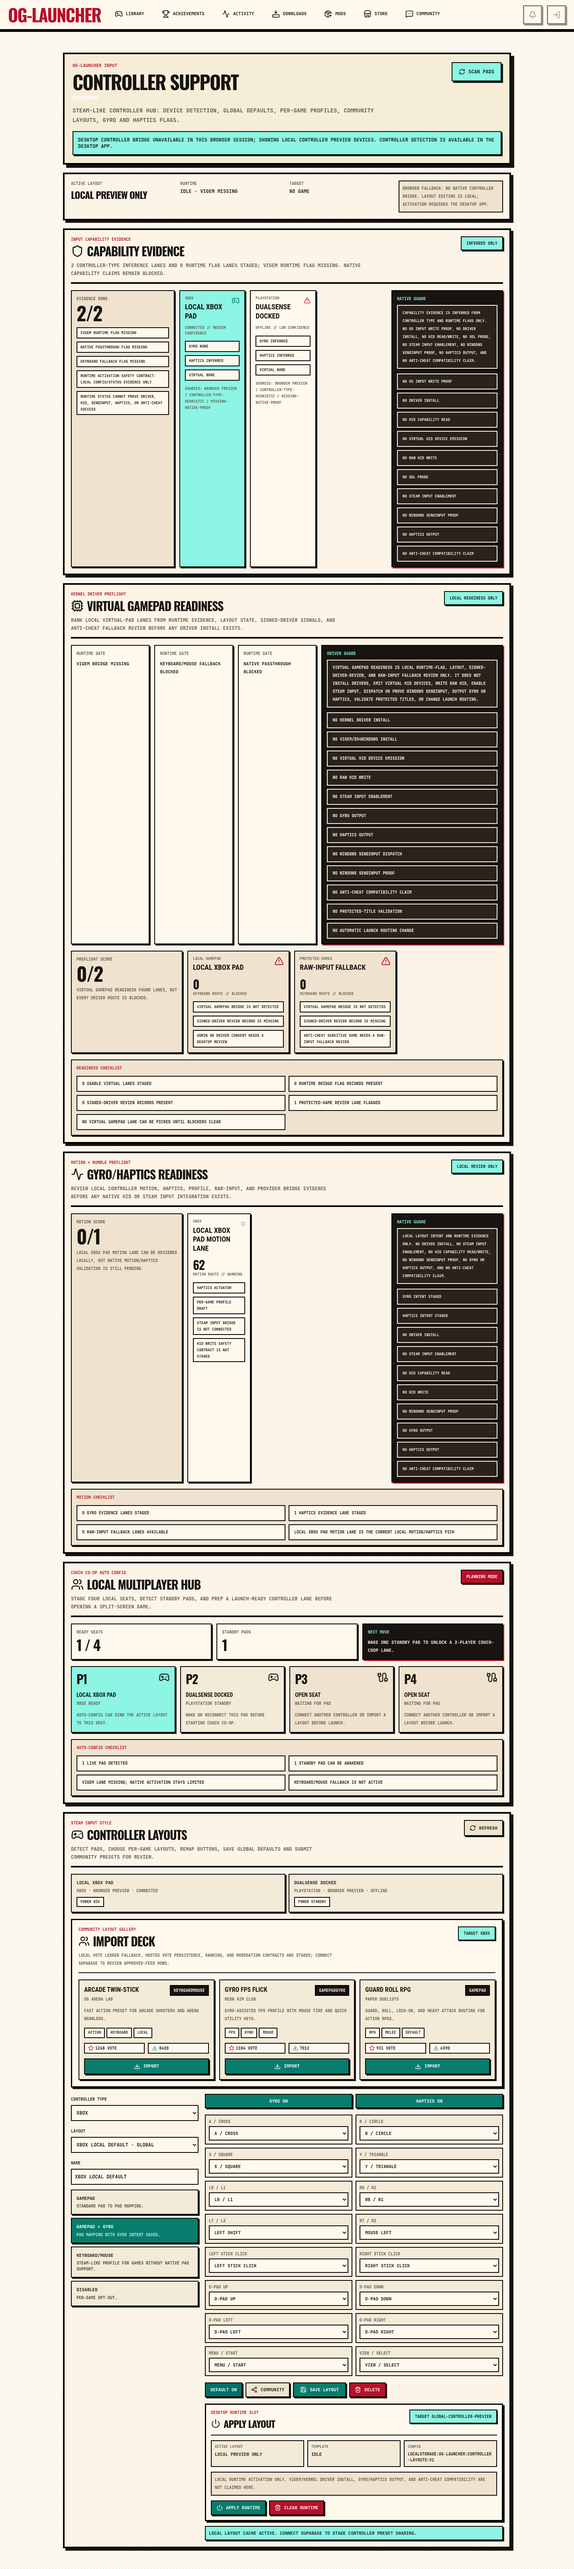
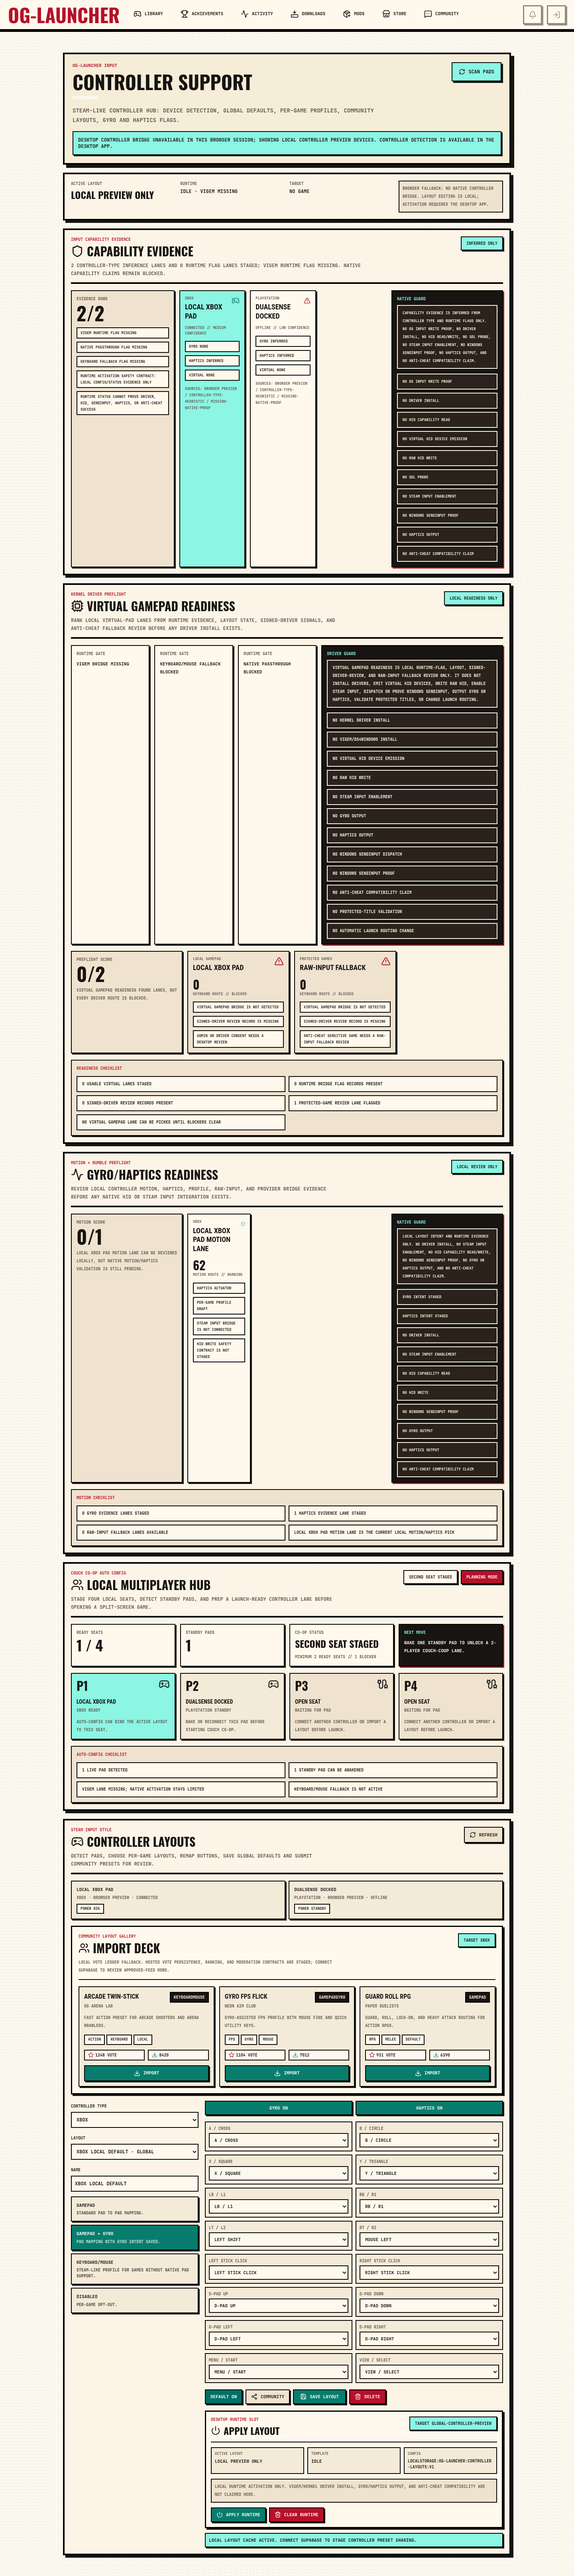
feat(controllers): show local co-op readiness

diff --git a/launcher/src/pages/ControllersPage.tsx b/launcher/src/pages/ControllersPage.tsx
@@ -1001,16 +1001,25 @@ function LocalMultiplayerHubPanel({ hub }: { hub: LocalMultiplayerHubModel }) {
             before opening a split-screen game.
           </p>
         </div>
-        <span
-          className={`neo-copy border-2 border-black px-3 py-2 text-[10px] font-black uppercase shadow-[3px_3px_0_#171411] ${getBridgeBadgeClass(
-            hub.bridgeStatus,
-          )}`}
-        >
-          {hub.bridgeMode}
-        </span>
+        <div className="flex flex-wrap items-center gap-2">
+          <span
+            className={`neo-copy border-2 border-black px-3 py-2 text-[10px] font-black uppercase shadow-[3px_3px_0_#171411] ${getCoOpBadgeClass(
+              hub.coOpStatus,
+            )}`}
+          >
+            {hub.coOpStatusLabel}
+          </span>
+          <span
+            className={`neo-copy border-2 border-black px-3 py-2 text-[10px] font-black uppercase shadow-[3px_3px_0_#171411] ${getBridgeBadgeClass(
+              hub.bridgeStatus,
+            )}`}
+          >
+            {hub.bridgeMode}
+          </span>
+        </div>
       </div>
 
-      <div className="mt-4 grid gap-3 md:grid-cols-3">
+      <div className="mt-4 grid gap-3 md:grid-cols-4">
         <div className="border-2 border-black bg-[#fff9ed] p-3 shadow-[3px_3px_0_#171411]">
           <p className="neo-copy text-[10px] font-black uppercase text-[#5f574d]">Ready Seats</p>
           <p className="neo-title mt-1 text-4xl uppercase text-[#171411]">
@@ -1020,6 +1029,18 @@ function LocalMultiplayerHubPanel({ hub }: { hub: LocalMultiplayerHubModel }) {
         <div className="border-2 border-black bg-[#fff9ed] p-3 shadow-[3px_3px_0_#171411]">
           <p className="neo-copy text-[10px] font-black uppercase text-[#5f574d]">Standby Pads</p>
           <p className="neo-title mt-1 text-4xl uppercase text-[#171411]">{hub.standbySlots}</p>
+        </div>
+        <div
+          className={`border-2 border-black p-3 shadow-[3px_3px_0_#171411] ${getCoOpCardClass(
+            hub.coOpStatus,
+          )}`}
+        >
+          <p className="neo-copy text-[10px] font-black uppercase text-[#5f574d]">Co-op Status</p>
+          <p className="neo-title mt-1 text-2xl uppercase text-[#171411]">{hub.coOpStatusLabel}</p>
+          <p className="neo-copy mt-2 text-[10px] font-black uppercase leading-5 text-[#5f574d]">
+            Minimum {hub.minimumReadySeats} ready seats // {hub.blockedCount}{" "}
+            {hub.blockedCount === 1 ? "blocker" : "blockers"}
+          </p>
         </div>
         <div className="border-2 border-black bg-[#171411] p-3 text-[#fff9ed] shadow-[3px_3px_0_#b7102a]">
           <p className="neo-copy text-[10px] font-black uppercase text-[#8cf5e4]">Next Move</p>
@@ -1075,6 +1096,18 @@ function getBridgeBadgeClass(status: LocalMultiplayerHubModel["bridgeStatus"]) {
   if (status === "ready") return "bg-[#087d6d] text-white";
   if (status === "setup") return "bg-[#8cf5e4] text-[#171411]";
   return "bg-[#b7102a] text-white";
+}
+
+function getCoOpBadgeClass(status: LocalMultiplayerHubModel["coOpStatus"]) {
+  if (status === "ready") return "bg-[#087d6d] text-white";
+  if (status === "staged") return "bg-[#fff9ed] text-[#171411]";
+  return "bg-[#b7102a] text-white";
+}
+
+function getCoOpCardClass(status: LocalMultiplayerHubModel["coOpStatus"]) {
+  if (status === "ready") return "bg-[#fff9ed]";
+  if (status === "staged") return "bg-[#fff9ed]";
+  return "bg-[#efe3cf]";
 }
 
 function getSlotClass(state: LocalMultiplayerSlot["state"]) {

diff --git a/launcher/src/lib/local-multiplayer-hub.ts b/launcher/src/lib/local-multiplayer-hub.ts
@@ -1,5 +1,6 @@
 import type { ControllerDevice, ControllerRuntimeStatus } from "./types/controllers";
 
+export type LocalMultiplayerCoOpStatus = "blocked" | "ready" | "staged";
 export type LocalMultiplayerSlotState = "empty" | "keyboard" | "ready" | "standby";
 
 export interface LocalMultiplayerSlot {
@@ -12,10 +13,14 @@ export interface LocalMultiplayerSlot {
 }
 
 export interface LocalMultiplayerHubModel {
+  blockedCount: number;
   bridgeMode: string;
   bridgeStatus: "ready" | "setup" | "warning";
   checklist: string[];
+  coOpStatus: LocalMultiplayerCoOpStatus;
+  coOpStatusLabel: string;
   maxPlayers: number;
+  minimumReadySeats: number;
   readySlots: number;
   recommendation: string;
   slots: LocalMultiplayerSlot[];
@@ -23,6 +28,7 @@ export interface LocalMultiplayerHubModel {
 }
 
 const MAX_LOCAL_PLAYERS = 4;
+const MINIMUM_LOCAL_COOP_READY_SEATS = 2;
 
 export function buildLocalMultiplayerHub(
   devices: ControllerDevice[],
@@ -79,17 +85,42 @@ export function buildLocalMultiplayerHub(
   ).length;
   const standbySlots = slots.filter((slot) => slot.state === "standby").length;
   const bridge = getBridgeMode(runtimeStatus);
+  const coOp = getCoOpStatus(readySlots, standbySlots);
 
   return {
+    blockedCount: coOp.blockedCount,
     bridgeMode: bridge.label,
     bridgeStatus: bridge.status,
     checklist: buildChecklist(runtimeStatus, connectedDevices.length, standbyDevices.length),
+    coOpStatus: coOp.status,
+    coOpStatusLabel: coOp.label,
     maxPlayers: MAX_LOCAL_PLAYERS,
+    minimumReadySeats: MINIMUM_LOCAL_COOP_READY_SEATS,
     readySlots,
     recommendation: getRecommendation(readySlots, standbySlots),
     slots,
     standbySlots,
   };
+}
+
+function getCoOpStatus(
+  readySlots: number,
+  standbySlots: number,
+): {
+  blockedCount: number;
+  label: string;
+  status: LocalMultiplayerCoOpStatus;
+} {
+  const blockedCount = Math.max(0, MINIMUM_LOCAL_COOP_READY_SEATS - readySlots);
+  if (readySlots >= MINIMUM_LOCAL_COOP_READY_SEATS) {
+    return { blockedCount, label: "Co-op Ready", status: "ready" };
+  }
+
+  if (readySlots + standbySlots >= MINIMUM_LOCAL_COOP_READY_SEATS) {
+    return { blockedCount, label: "Second Seat Staged", status: "staged" };
+  }
+
+  return { blockedCount, label: "Needs Second Seat", status: "blocked" };
 }
 
 function getBridgeMode(runtimeStatus: ControllerRuntimeStatus | null): {

diff --git a/launcher/src/lib/__tests__/local-multiplayer-hub.test.ts b/launcher/src/lib/__tests__/local-multiplayer-hub.test.ts
@@ -36,6 +36,10 @@ describe("buildLocalMultiplayerHub", () => {
     const hub = buildLocalMultiplayerHub(devices, runtimeReady);
 
     expect(hub.bridgeMode).toBe("Native routing");
+    expect(hub.coOpStatus).toBe("ready");
+    expect(hub.coOpStatusLabel).toBe("Co-op Ready");
+    expect(hub.blockedCount).toBe(0);
+    expect(hub.minimumReadySeats).toBe(2);
     expect(hub.readySlots).toBe(2);
     expect(hub.standbySlots).toBe(1);
     expect(hub.slots.map((slot) => [slot.label, slot.state])).toEqual([
@@ -47,6 +51,18 @@ describe("buildLocalMultiplayerHub", () => {
     expect(hub.checklist).toContain("ViGEm lane is available for virtual-pad routing");
   });
 
+  it("marks a standby second seat as staged but not launch ready", () => {
+    const hub = buildLocalMultiplayerHub(devices, {
+      ...runtimeReady,
+      keyboardMouseEmulationReady: false,
+    });
+
+    expect(hub.coOpStatus).toBe("staged");
+    expect(hub.coOpStatusLabel).toBe("Second Seat Staged");
+    expect(hub.blockedCount).toBe(1);
+    expect(hub.recommendation).toBe("Wake one standby pad to unlock a 2-player couch-coop lane.");
+  });
+
   it("keeps local co-op blocked until a second seat can be staged", () => {
     const hub = buildLocalMultiplayerHub([devices[0]], {
       ...runtimeReady,
@@ -55,6 +71,10 @@ describe("buildLocalMultiplayerHub", () => {
     });
 
     expect(hub.bridgeMode).toBe("Planning mode");
+    expect(hub.coOpStatus).toBe("blocked");
+    expect(hub.coOpStatusLabel).toBe("Needs Second Seat");
+    expect(hub.blockedCount).toBe(1);
+    expect(hub.minimumReadySeats).toBe(2);
     expect(hub.readySlots).toBe(1);
     expect(hub.recommendation).toBe("Plug in one more pad to unlock a 2-player couch-coop lane.");
     expect(hub.checklist).toContain("Keyboard/mouse fallback is not active");

diff --git a/launcher/src/pages/ControllersPage.test.tsx b/launcher/src/pages/ControllersPage.test.tsx
@@ -96,6 +96,12 @@ describe("ControllersPage local multiplayer hub", () => {
 
     expect(within(hub).getByText("Local Multiplayer Hub")).toBeInTheDocument();
     expect(within(hub).getByText("Native routing")).toBeInTheDocument();
+    expect(within(hub).getAllByText("Co-op Ready")).toHaveLength(2);
+    expect(
+      within(hub).getByText((_, element) => {
+        return element?.textContent === "Minimum 2 ready seats // 0 blockers";
+      }),
+    ).toBeInTheDocument();
     expect(within(hub).getByText("Arcade Stick One")).toBeInTheDocument();
     expect(within(hub).getByText("Keyboard/Mouse Host")).toBeInTheDocument();
     expect(within(hub).getByText("Docked DualSense")).toBeInTheDocument();

diff --git a/docs/verification/README.md b/docs/verification/README.md
@@ -198,8 +198,8 @@ wrapping or overflow notes where relevant.
 - `screenshots/controllers-community-layouts-mobile.png` - Mobile `/controllers` community layout gallery and import deck stacked without horizontal overflow at 390px. Local verification evidence.
 - `screenshots/controllers-hosted-controller-layouts-readiness-local.png` - `/controllers?verify=hosted-controller-layouts` Hosted Controller Community Layouts readiness panel showing 8/8 staged review gates for local fallback, editor approved-feed staging, RLS, approved feed, vote persistence, hosted import/download/report actions, report-backed moderation, service-role review/audit evidence, and separate blocked rollout/profile-sync lanes. Retro Manga/OG-Launcher styling and overflow evidence.
 - `screenshots/controllers-runtime-activation-local.png` - `/controllers?verify=controller-runtime-activation` local Controller Runtime Activation view showing the active runtime strip, Apply Runtime/Clear Runtime controls in the layout editor, config-path evidence, and explicit no ViGEm/kernel install, gyro/haptics output, or anti-cheat compatibility claims. Retro Manga/OG-Launcher styling and overflow evidence.
-- `screenshots/controllers-local-multiplayer-hub-local-preview.png` - `/controllers` browser fallback showing the Local Multiplayer Hub with couch-coop player slots, standby pad detection, planning-mode bridge badge, auto-config checklist, and the existing layout editor below it. Retro Manga/OG-Launcher styling and overflow evidence.
-- `screenshots/controllers-local-multiplayer-hub-mobile.png` - Mobile `/controllers` browser fallback showing the Local Multiplayer Hub stacked at 390px without horizontal overflow, including couch-coop player slots, standby pad detection, planning-mode bridge badge, and auto-config checklist.
+- `screenshots/controllers-local-multiplayer-hub-local-preview.png` - `/controllers` browser fallback showing the Local Multiplayer Hub with couch-coop player slots, standby pad detection, planning-mode bridge badge, explicit Co-op Status card with minimum 2 ready seats and blocker count, auto-config checklist, and the existing layout editor below it. Retro Manga/OG-Launcher styling and overflow evidence.
+- `screenshots/controllers-local-multiplayer-hub-mobile.png` - Mobile `/controllers` browser fallback showing the Local Multiplayer Hub stacked at 390px without horizontal overflow, including couch-coop player slots, standby pad detection, planning-mode bridge badge, explicit Co-op Status card with minimum 2 ready seats and blocker count, and auto-config checklist.
 - `screenshots/controllers-virtual-gamepad-readiness-local.png` - `/controllers?verify=virtual-gamepad-readiness` local Virtual Gamepad Readiness panel showing ViGEm detection as local runtime evidence, keyboard/mouse fallback ready, native passthrough blocked, and model-level guards for no kernel driver install, no ViGEm/DS4Windows install, no virtual HID emission, no raw HID write, no Steam Input enablement, no gyro/haptics output, no Windows SendInput proof, no protected-title validation, no anti-cheat compatibility claim, and no automatic launch routing change. Retro Manga/OG-Launcher styling and overflow evidence.
 - `screenshots/controllers-gyro-haptics-readiness-local.png` - `/controllers?verify=controller-gyro-haptics-readiness` local Controller Gyro/Haptics Readiness panel showing layout intent, runtime evidence, motion/haptics lanes, raw-input fallback, and explicit no driver install, no Steam Input enablement, no HID capability read, and no anti-cheat compatibility claim. Retro Manga/OG-Launcher styling and overflow evidence.
 - `screenshots/controllers-capability-evidence-local.png` - `/controllers?verify=controller-capability-evidence` local Controller Capability Evidence panel showing inferred gyro/haptics/virtual-pad rows, runtime flag evidence, and explicit no HID/SDL/Steam Input/haptics output or anti-cheat compatibility claims. Retro Manga/OG-Launcher styling and overflow evidence.
